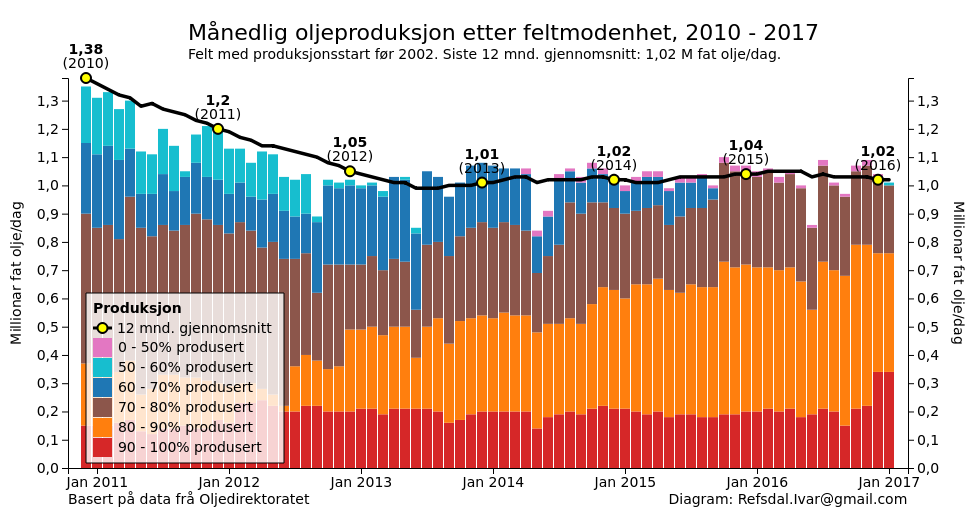
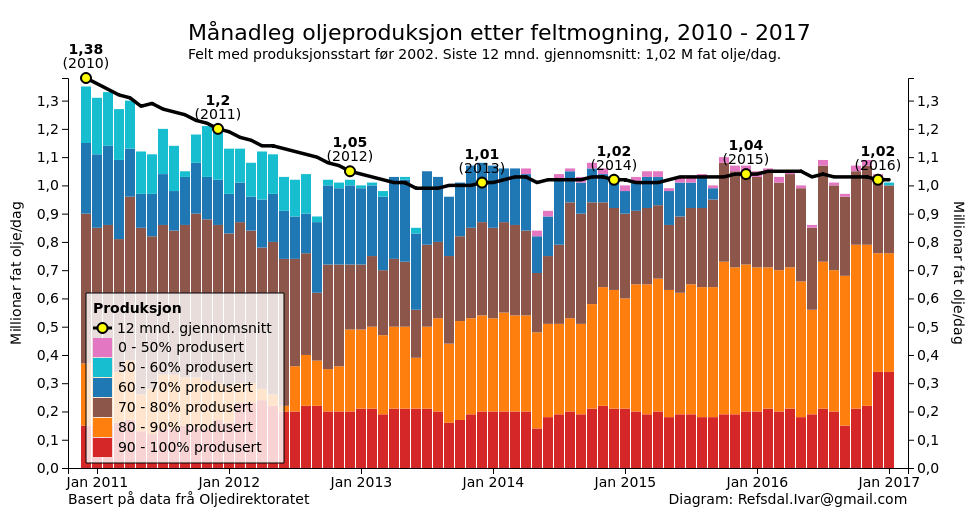
Last work on #58

Changed region(s): [[0.2789, 0.0308, 0.8368, 0.0923]]

diff --git a/vis/recent_production.js b/vis/recent_production.js
@@ -114,7 +114,7 @@ function show_resource(opts) {
         .attr('x', xstart)
         .style("text-anchor", "start")
         .classed("heading", true)
-        .text("Månedlig oljeproduksjon etter feltmodenhet, " + data[0].date.getFullYear() + " - " + data[data.length - 1].date.getFullYear())
+        .text("Månadleg oljeproduksjon etter feltmogning, " + data[0].date.getFullYear() + " - " + data[data.length - 1].date.getFullYear())
 
       svg.append("g")
         .append("text")
